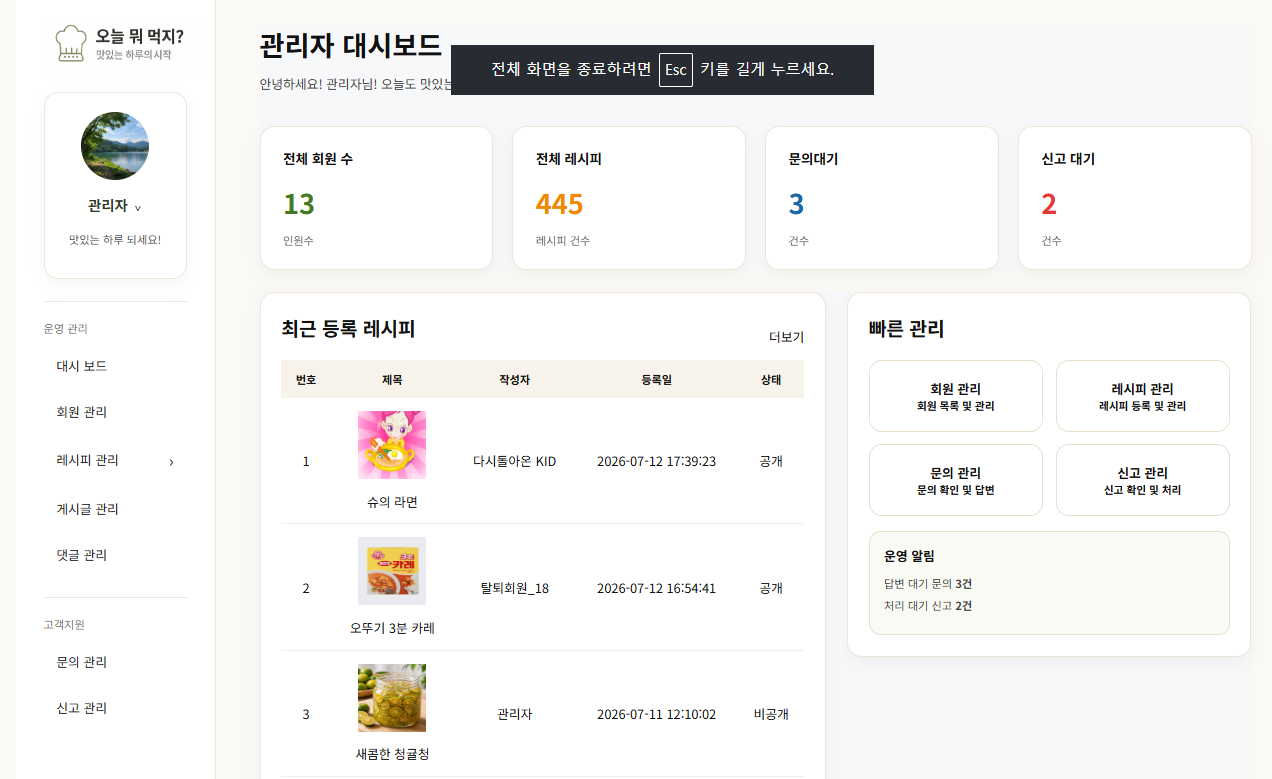
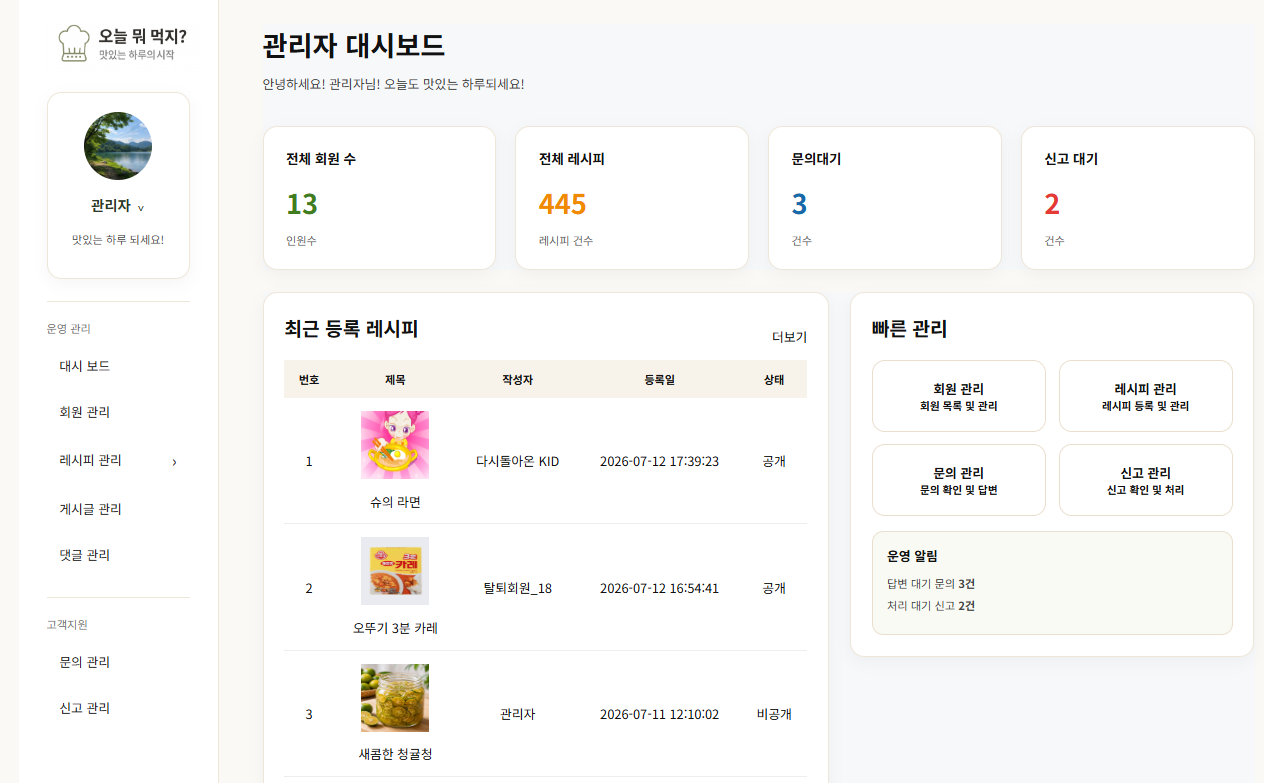
디버깅

diff --git a/README.md b/README.md
@@ -99,7 +99,7 @@ GitHub Actions를 활용한 CI/CD 자동 배포
 
 로그인
 
-(이미지)
+![로그인](./images/login.png)
 
 레시피 상세
 
